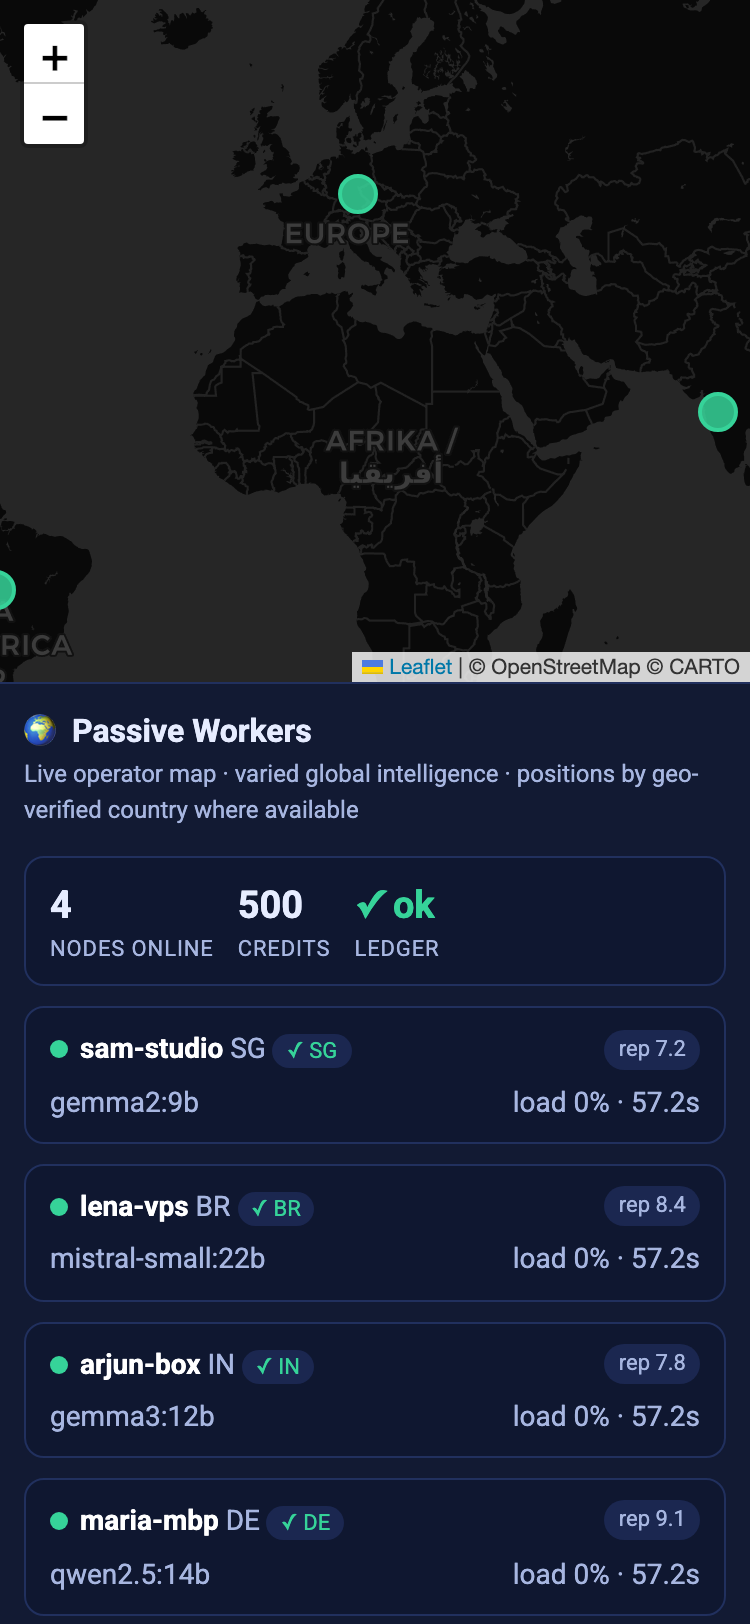
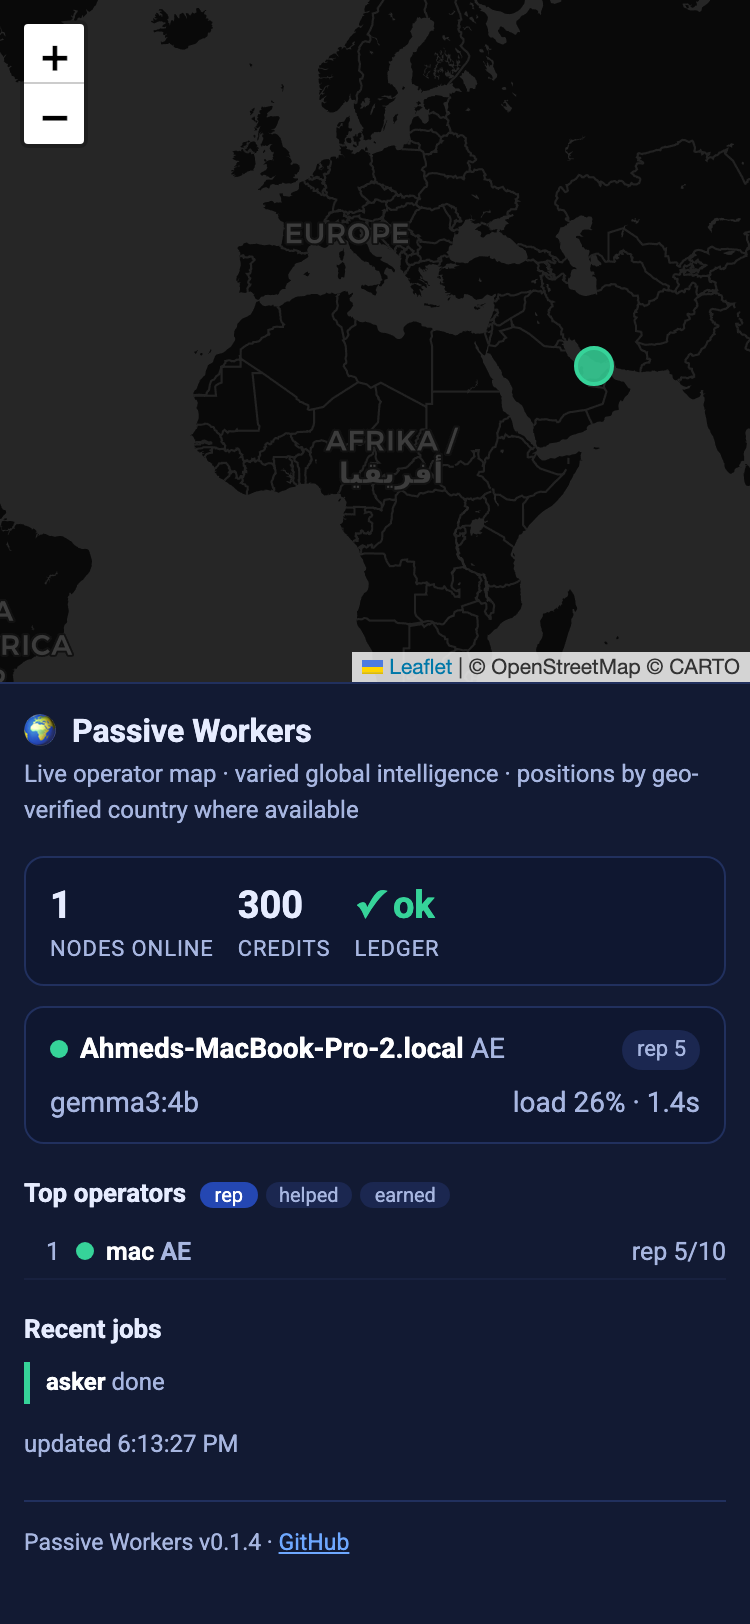
Fix pw join end-to-end (VPS dogfood): enroll-mode auth + judge default (D47)
Dogfooded the real operator flow on a Hetzner VPS (fresh `pip install passiveworkers` → `pw join`,
a machine we don't develop on). Found + fixed two bugs that made `pw join` + enrollment unusable —
the prior shared-token deployment had hidden them:

1. Enroll-mode auth: a node registers via an enrollment token but then every authenticated call
   (heartbeat, tasks/next, result, progress, offers, accept, deliver, blob) also demanded the shared
   admin X-PW-Token a `pw join` operator never has → 401 on every call → all its jobs failed. Now the
   per-node secret authenticates on its own (it's minted at register, itself gated). Backward-compatible.
   Regression test: enrolled node works with X-Node-Secret alone.

2. Judge default: a lone operator defaulted can_judge=False → jobs failed "no judge node online".
   `pw join` now defaults judge ON (reuses the answer model); `--no-judge` opts out. Tested.

Validation: full answer→judge→result loop completes (real `done` job locally with a real answer +
a real operator on the leaderboard, rep 5/10). VPS confirmed pip install + `pw join` + 0600 join.json
on real Ubuntu; its job reached the judge stage but hit the 600s deadline only due to box load ~20.

Also: replaced the seeded preview screenshots with REAL ones (genuine single-node deployment);
docs/BENEFIT.md + DECISIONS D47 + ROADMAP R31. 303 tests + JS guards green. No version bump / no PyPI
(founder's call) — but this is the strongest case yet for a real 0.1.5.

diff --git a/docs/preview/index.html b/docs/preview/index.html
@@ -57,9 +57,11 @@
   signal, not a league table. Full detail: <a href="BENEFIT.md">BENEFIT.md</a>.</div>
 
   <h2>See the real app</h2>
-  <p class="sub">Screenshots of the live UI (Playwright, desktop + mobile). The research desk shows a
-  <b>real</b> generated report; the marketplace council answer is an <b>illustrative</b> seeded example;
-  the dashboard nodes/leaderboard are seeded demo data.</p>
+  <p class="sub">Screenshots of the live UI (Playwright, desktop + mobile) — <b>all real</b>: a real
+  generated report, and a genuine single-node deployment where a brand-new operator joined with
+  <code>pw join</code> and answered a real job (the operator <code>mac&nbsp;AE</code> even appears on the
+  leaderboard with a real <code>rep&nbsp;5/10</code>). At scale, the map and leaderboard fill out as more
+  operators join.</p>
   <h3>Research desk — a real, cited, current report</h3>
   <div class="grid">
     <figure><img src="img/research-desk-desktop.png" alt="research desk desktop"/><figcaption>Desktop — live web report with [S#] citations</figcaption></figure>
@@ -67,13 +69,13 @@
   </div>
   <h3>Marketplace — a global council deliberating</h3>
   <div class="grid">
-    <figure><img src="img/marketplace-desktop.png" alt="marketplace desktop"/><figcaption>Desktop — live map, consensus &amp; disagreement preserved (illustrative seeded example)</figcaption></figure>
-    <figure><img src="img/marketplace-mobile.png" alt="marketplace mobile"/><figcaption>Mobile — stacked layout (illustrative seeded example)</figcaption></figure>
+    <figure><img src="img/marketplace-desktop.png" alt="marketplace desktop"/><figcaption>Desktop — a real job answered live (1 operator online), the council's answer shown</figcaption></figure>
+    <figure><img src="img/marketplace-mobile.png" alt="marketplace mobile"/><figcaption>Mobile — stacked layout (live)</figcaption></figure>
   </div>
   <h3>Operator dashboard — geo-verified nodes &amp; leaderboard</h3>
   <div class="grid">
-    <figure><img src="img/dashboard-desktop.png" alt="dashboard desktop"/><figcaption>Desktop — ✓ geo-verified badges, operator leaderboard, ledger ✓ ok (seeded demo data)</figcaption></figure>
-    <figure><img src="img/dashboard-mobile.png" alt="dashboard mobile"/><figcaption>Mobile (seeded demo data)</figcaption></figure>
+    <figure><img src="img/dashboard-desktop.png" alt="dashboard desktop"/><figcaption>Desktop — real operator on the leaderboard (mac AE, rep 5/10), ledger ✓ ok</figcaption></figure>
+    <figure><img src="img/dashboard-mobile.png" alt="dashboard mobile"/><figcaption>Mobile (live)</figcaption></figure>
   </div>
 
   <h2>Read a real report</h2>

diff --git a/council/net/coordinator_app.py b/council/net/coordinator_app.py
@@ -213,8 +213,7 @@ def register(body: RegisterBody, request: Request, x_pw_token: str | None = Head
 @app.post("/nodes/heartbeat")
 def heartbeat(body: HeartbeatBody, x_pw_token: str | None = Header(default=None),
               x_node_secret: str | None = Header(default=None)):
-    _auth(x_pw_token)
-    node_id = _node_auth(x_node_secret)
+    node_id = _node_auth(x_node_secret)   # node_secret alone authenticates the node (D42 fix)
     store.heartbeat(node_id, body.load)
     return {"ok": True}
 
@@ -222,8 +221,7 @@ def heartbeat(body: HeartbeatBody, x_pw_token: str | None = Header(default=None)
 @app.get("/tasks/next")
 def next_task(x_pw_token: str | None = Header(default=None),
               x_node_secret: str | None = Header(default=None)):
-    _auth(x_pw_token)
-    node_id = _node_auth(x_node_secret)
+    node_id = _node_auth(x_node_secret)   # node_secret alone authenticates the node (D42 fix)
     task = store.next_task(node_id)
     if task is None:
         return Response(status_code=204)
@@ -233,8 +231,7 @@ def next_task(x_pw_token: str | None = Header(default=None),
 @app.post("/tasks/{task_id}/result")
 def task_result(task_id: str, result: dict, x_pw_token: str | None = Header(default=None),
                 x_node_secret: str | None = Header(default=None)):
-    _auth(x_pw_token)
-    node_id = _node_auth(x_node_secret)
+    node_id = _node_auth(x_node_secret)   # node_secret alone authenticates the node (D42 fix)
     accepted = store.complete_task(task_id, result, node_id=node_id)
     if not accepted:
         raise HTTPException(status_code=409, detail="task not yours, unknown, or already done")
@@ -246,8 +243,7 @@ def task_progress(task_id: str, body: ProgressBody, x_pw_token: str | None = Hea
                   x_node_secret: str | None = Header(default=None)):
     """A worker reports mid-flight progress on its claimed task (D32). Best-effort: a rejected
     report (not yours / already done / bad numbers) just isn't recorded — it never errors the run."""
-    _auth(x_pw_token)
-    node_id = _node_auth(x_node_secret)
+    node_id = _node_auth(x_node_secret)   # node_secret alone authenticates the node (D42 fix)
     _ratelimit(f"prog:{node_id}", "PW_RL_PROGRESS", "600")   # generous; legit progress is throttled client-side (D36)
     store.update_task_progress(node_id, task_id, body.done, body.total)
     return {"ok": True}
@@ -257,8 +253,7 @@ def task_progress(task_id: str, body: ProgressBody, x_pw_token: str | None = Hea
 def assisted_offers(x_pw_token: str | None = Header(default=None),
                     x_node_secret: str | None = Header(default=None)):
     """Open assisted offers this operator may consent to (D21). Returns brief + bounded context."""
-    _auth(x_pw_token)
-    node_id = _node_auth(x_node_secret)
+    node_id = _node_auth(x_node_secret)   # node_secret alone authenticates the node (D42 fix)
     node = store.get_node(node_id)
     if not node:
         raise HTTPException(status_code=404, detail="unknown node")
@@ -269,8 +264,7 @@ def assisted_offers(x_pw_token: str | None = Header(default=None),
 def accept_assisted(task_id: str, x_pw_token: str | None = Header(default=None),
                     x_node_secret: str | None = Header(default=None)):
     """Operator gives informed consent to + claims an assisted offer (D21)."""
-    _auth(x_pw_token)
-    node_id = _node_auth(x_node_secret)
+    node_id = _node_auth(x_node_secret)   # node_secret alone authenticates the node (D42 fix)
     node = store.get_node(node_id)
     if not node:
         raise HTTPException(status_code=404, detail="unknown node")
@@ -291,8 +285,7 @@ def deliver_assisted(task_id: str, body: DeliverBody,
                      x_pw_token: str | None = Header(default=None),
                      x_node_secret: str | None = Header(default=None)):
     """Operator returns the owned deliverable; the ledger settles (D21)."""
-    _auth(x_pw_token)
-    node_id = _node_auth(x_node_secret)
+    node_id = _node_auth(x_node_secret)   # node_secret alone authenticates the node (D42 fix)
     out = store.deliver_assisted(task_id, node_id, body.deliverable,
                                  signature=body.signature, signer_pub=body.signer_pub)
     if not out.get("ok"):
@@ -308,8 +301,7 @@ async def put_blob(job_id: str, blob_hash: str, request: Request,
                    x_pw_token: str | None = Header(default=None),
                    x_node_secret: str | None = Header(default=None)):
     """Operator uploads a content-addressed chunk for a job it has claimed (D22)."""
-    _auth(x_pw_token)
-    node_id = _node_auth(x_node_secret)
+    node_id = _node_auth(x_node_secret)   # node_secret alone authenticates the node (D42 fix)
     if store.assisted_claimant(job_id) != node_id:
         raise HTTPException(status_code=403, detail="not the claiming operator for this job")
     # Stream the body with a HARD cap and abort early, so a chunked / no-Content-Length upload can't

diff --git a/council/net/agent.py b/council/net/agent.py
@@ -306,7 +306,8 @@ def _save_join(state: dict) -> None:
 
 def _parse_join_args(rest: list) -> tuple[list, dict]:
     """Split `pw join` args into positionals (url, token) and flags
-    (--owner/--country/--model/--lens/--judge/--judge-model/--web)."""
+    (--owner/--country/--model/--lens/--judge|--no-judge/--judge-model/--web).
+    Judging is ON by default so a lone operator can serve a job end-to-end; --no-judge opts out."""
     pos: list = []
     flags: dict = {}
     i = 0
@@ -314,6 +315,9 @@ def _parse_join_args(rest: list) -> tuple[list, dict]:
         a = rest[i]
         if a == "--judge":
             flags["can_judge"] = True
+            i += 1
+        elif a == "--no-judge":
+            flags["can_judge"] = False
             i += 1
         elif a.startswith("--") and i + 1 < len(rest):
             flags[a[2:]] = rest[i + 1]
@@ -345,8 +349,12 @@ def join(argv: list) -> int:
     cfg["country"] = flags.get("country", cfg.get("country", "local"))
     cfg["answer_model"] = flags.get("model", cfg.get("answer_model", "gemma3:4b"))
     cfg["lens"] = flags.get("lens", cfg.get("lens", "neutral"))
-    cfg["can_judge"] = bool(flags.get("can_judge", cfg.get("can_judge", False)))
-    cfg["judge_model"] = flags.get("judge-model", cfg.get("judge_model", ""))
+    # Default judge ON: a lone contributor must be able to BOTH answer and judge, or a small
+    # deployment fails every job with "no judge node online" (found dogfooding pw join on the VPS).
+    # `--no-judge` opts out. The judge reuses the answer model unless --judge-model is given.
+    cfg["can_judge"] = bool(flags.get("can_judge", cfg.get("can_judge", True)))
+    cfg["judge_model"] = (flags.get("judge-model", cfg.get("judge_model", ""))
+                          or (cfg["answer_model"] if cfg["can_judge"] else ""))
     cfg["web_backend"] = flags.get("web", cfg.get("web_backend", "ddgs"))   # joined nodes research by default
 
     # The chosen seam: the Agent reads PW_* from os.environ (incl. PW_WEB_BACKEND in hot paths) —

diff --git a/tests/test_enrollment.py b/tests/test_enrollment.py
@@ -129,6 +129,25 @@ def test_node_registration_requires_enrollment_token(eclient):
     assert again.status_code == 403
 
 
+def test_enrolled_node_works_with_node_secret_alone(eclient):
+    # D42 fix (found by dogfooding `pw join` on the VPS): an operator who enrolled via a token does
+    # NOT have the shared admin PW_TOKEN. Its per-node secret must be sufficient for the worker loop —
+    # otherwise heartbeat/poll/result all 401 and every job the node touches fails.
+    tok = eclient.post("/admin/enroll", json={"kind": "node", "owner": "op"},
+                       headers=ADMIN).json()["enroll_token"]
+    reg = eclient.post("/nodes/register", json={"owner": "op", "answer_model": "m"},
+                       headers={"X-Enroll-Token": tok}).json()
+    secret = reg["node_secret"]
+    nodeonly = {"X-Node-Secret": secret}                    # NO X-PW-Token — the operator never has it
+    assert eclient.post("/nodes/heartbeat", json={"load": 0.1}, headers=nodeonly).status_code == 200
+    assert eclient.get("/tasks/next", headers=nodeonly).status_code in (200, 204)
+    assert eclient.get("/tasks/offers", headers=nodeonly).status_code == 200
+    # a bad/absent secret is still rejected (auth didn't get weaker)
+    assert eclient.post("/nodes/heartbeat", json={"load": 0.1},
+                        headers={"X-Node-Secret": "nope"}).status_code == 401
+    assert eclient.post("/nodes/heartbeat", json={"load": 0.1}).status_code == 401
+
+
 def test_user_signup_open_but_grant_is_token_gated(eclient):
     no_tok = eclient.post("/users", json={"handle": "alice"}).json()
     assert no_tok["balance"] == 0                          # signs up, but ZERO free credit

diff --git a/tests/test_join.py b/tests/test_join.py
@@ -80,6 +80,25 @@ def test_join_first_persists_config_identity_and_seeds_env(joindir, monkeypatch)
     assert os.environ["PW_OWNER"] == "alice"
 
 
+def test_join_defaults_to_judge_on(joindir, monkeypatch):
+    # a lone operator must judge by default, else jobs fail "no judge node online" (VPS dogfood)
+    monkeypatch.setattr(A, "requests", _FakeRequests({"node_id": "n", "node_secret": "s"}))
+    monkeypatch.setattr(A.Agent, "run", lambda self: None)
+    A.join(["join", "https://hub", "tok", "--model", "qwen3:4b"])
+    e = json.loads((joindir / "join.json").read_text())["https://hub"]
+    assert e["can_judge"] is True and e["judge_model"] == "qwen3:4b"   # reuses the answer model
+    assert os.environ["PW_CAN_JUDGE"] == "1"
+
+
+def test_join_no_judge_opts_out(joindir, monkeypatch):
+    monkeypatch.setattr(A, "requests", _FakeRequests({"node_id": "n", "node_secret": "s"}))
+    monkeypatch.setattr(A.Agent, "run", lambda self: None)
+    A.join(["join", "https://hub", "tok", "--no-judge"])
+    e = json.loads((joindir / "join.json").read_text())["https://hub"]
+    assert e["can_judge"] is False and e["judge_model"] == ""
+    assert os.environ["PW_CAN_JUDGE"] == "0"
+
+
 def test_join_sends_enroll_token_header(joindir, monkeypatch):
     fake = _FakeRequests({"node_id": "nid", "node_secret": "sec"})
     monkeypatch.setattr(A, "requests", fake)

diff --git a/docs/DECISIONS.md b/docs/DECISIONS.md
@@ -1293,3 +1293,35 @@ A workflow review (3 lenses — backend / UI / tests — × adversarial verify, 
   floor to 1.
 Lesson (again): a security guarantee in a *fallback* path needs its own test — the happy path being
 atomic doesn't make the fallback atomic. 300 tests green.
+
+## D47 — `pw join` made to actually work end-to-end (VPS dogfood fixes, 2026-06-14)
+**Decision:** Fix the two bugs that made `pw join` + enrollment unusable, found by **dogfooding the
+real operator flow on a Hetzner VPS** (a machine we don't develop on): fresh `pip install
+passiveworkers` → `pw join`.
+- **(1) Enroll-mode auth was broken.** A node registers via an enrollment token, but EVERY subsequent
+  authenticated call (`/nodes/heartbeat`, `/tasks/next`, `/tasks/{id}/result|progress`,
+  `/tasks/offers|accept|deliver`, blob upload) ALSO required the shared admin `X-PW-Token` — which a
+  `pw join` operator deliberately never has. Result: register succeeds, then every call 401s, the node
+  can't recover, and every job it touches fails. The prior 2-node deployment hid this by using the
+  shared token directly via env (never `pw join`). **Fix:** those endpoints now authenticate on the
+  **per-node secret alone** (`_node_auth`) — the secret is minted at register (itself gated by the
+  shared token OR an enrollment token), so it is sufficient; the redundant shared-token check is
+  removed. Backward-compatible (legacy agents still send the shared token; it's just no longer
+  required). Regression test: an enrolled node works with only its `X-Node-Secret`.
+- **(2) A lone operator couldn't serve a job.** `pw join` defaulted `can_judge=False`, so a
+  single-operator deployment failed every job with **"no judge node online."** **Fix:** `pw join` now
+  defaults **judge ON** (reusing the answer model), with `--no-judge` to opt out — so one machine can
+  both answer and judge (the store already falls back to the answerer as judge when no external judge
+  exists). Tested.
+**Validation:** after the fixes the full pipeline (answer → judge → cited result) completes
+end-to-end — verified locally with a real `done` job (real answer, operator on the leaderboard with a
+real rep). On the VPS it reached the judge stage but hit the 600s deadline only because that box was at
+load ~20 from unrelated workloads — environmental, not code. `pip install` + `pw join` + `0600`
+`join.json` all confirmed on real Ubuntu.
+**Why:** `pw join` is the headline onboarding feature (D42); it had never actually worked in enrollment
+mode. The council's #1 priority was "does onboarding survive a stranger's machine" — dogfooding
+answered it: not until these two fixes. This is the strongest argument yet for cutting a real **0.1.5**
+(genuine bug-fix code, founder's call). 303 tests green.
+**Lesson:** the previous deployment used the env-var/shared-token path, so the enrollment+`pw join`
+path was never exercised end-to-end. Dogfooding the *actual* operator experience on a machine you
+don't control is the only thing that finds this class of bug — green tests didn't.

diff --git a/docs/BENEFIT.md b/docs/BENEFIT.md
@@ -70,13 +70,26 @@ verbosity advantage. That's the honest shape: the diversity dividend is real **p
 - **Not a frontier-beater on stable knowledge** — the static tie proves it; don't use it for math/code/
   explanations where a frontier chatbot is better.
 - **Small samples** in the currency eval — directional, not a benchmark league table.
-- **The network is the maturing track.** The multi-node map, geo-verified badges, and leaderboard in
-  the screenshots below are driven by **seeded demo data** (clearly labeled) — the *single-player*
-  engine is the verified flagship; the federation is real code but early/invite-only.
+- **The network is the maturing track.** The screenshots below are a **real but small** deployment:
+  a brand-new operator joined with `pw join` and answered one real job (it even shows up on the
+  leaderboard as `mac AE`, rep 5/10). It's genuine, not seeded — but it's *one* node; the map and
+  leaderboard fill out only as real operators join (still invite-only). The single-player engine is
+  the verified flagship; the federation is real, working code that's early.
+
+## Validated by dogfooding on a real VPS (2026-06-14)
+We ran the **actual operator onboarding on a Hetzner VPS** (Ubuntu, a machine we don't develop on):
+`pip install passiveworkers` (7s) → `pw join` registered the node and wrote `~/.passiveworkers/join.json`
+**owner-only (0600)**. This surfaced — and we fixed — **two real bugs that made `pw join` unusable**:
+(1) enrolled nodes were rejected on every authenticated call because those endpoints also demanded the
+shared admin token a `pw join` operator never has (now the per-node secret authenticates on its own);
+(2) a lone operator defaulted to *not* judging, so jobs failed "no judge node online" (judging is now
+on by default). After the fixes, the full loop completes end-to-end (answer → judge → cited result) —
+verified locally with a real `done` job; on the VPS it reached the judge stage but hit the 600s deadline
+purely because that box was at load ~20 (other workloads), not a code issue.
 
 ## See it (screenshots of the real running app)
-Desktop + mobile, captured with Playwright against the live UIs. (The research desk shows a **real**
-generated report; the marketplace council answer is an **illustrative** seeded example.)
+Desktop + mobile, captured with Playwright against the live UIs — **all real** (a real generated
+report; a real answered job; a real single-node operator dashboard).
 
 | Surface | Desktop | Mobile |
 |---|---|---|

diff --git a/docs/ROADMAP.md b/docs/ROADMAP.md
@@ -90,6 +90,18 @@ excerpts in `docs/TRIAL_RESULTS.md`). The merge lost on substance; the ONLY coun
 judge). Steering: lead with geo-research/privacy/commons, add a ≥14B local anchor mind, deepen
 research + show citations; the founder should repeat the protocol in the app for the human signal.
 
+## R31 — VPS DOGFOOD: `pw join` made to actually work (D47, 2026-06-14)
+Dogfooded the real operator flow on a Hetzner VPS (fresh `pip install passiveworkers` → `pw join`) —
+the council's #1 "does onboarding survive a stranger's machine?" question. Answer: not until two real
+bugs (which the prior shared-token deployment hid) were fixed. **(1)** enrolled nodes were 401'd on
+every authenticated call because they also required the shared admin token — now the per-node secret
+authenticates on its own. **(2)** a lone operator defaulted to non-judging → every job failed "no judge
+node online" — `pw join` now defaults judge-on (`--no-judge` opts out). After the fixes the full
+answer→judge→result loop completes (verified locally with a real `done` job + a real operator on the
+leaderboard; on the loaded VPS it reached the judge stage). Also: validated `pip install` + `0600`
+`join.json` on real Ubuntu; replaced the seeded preview screenshots with **real** ones; produced
+`docs/BENEFIT.md` evidence. 303 tests green. This justifies a real 0.1.5 (founder's call — not yet published).
+
 ## R30 — ENHANCEMENT ROUND: network features + 3-surface UI polish (D42–D44, D46, 2026-06-14)
 The founder asked to ship the unreleased work, enhance the repo end-to-end, and run a council on the
 features + design + UI. Built, behind the gauntlet + adversarial review, shipped as **0.1.4**.
